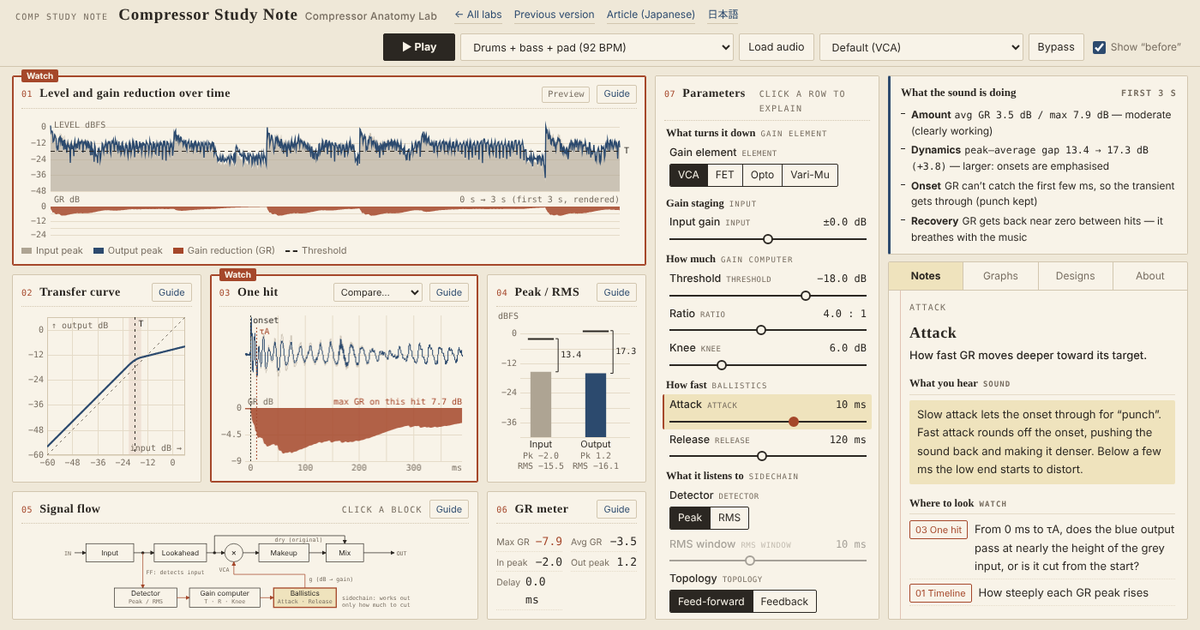
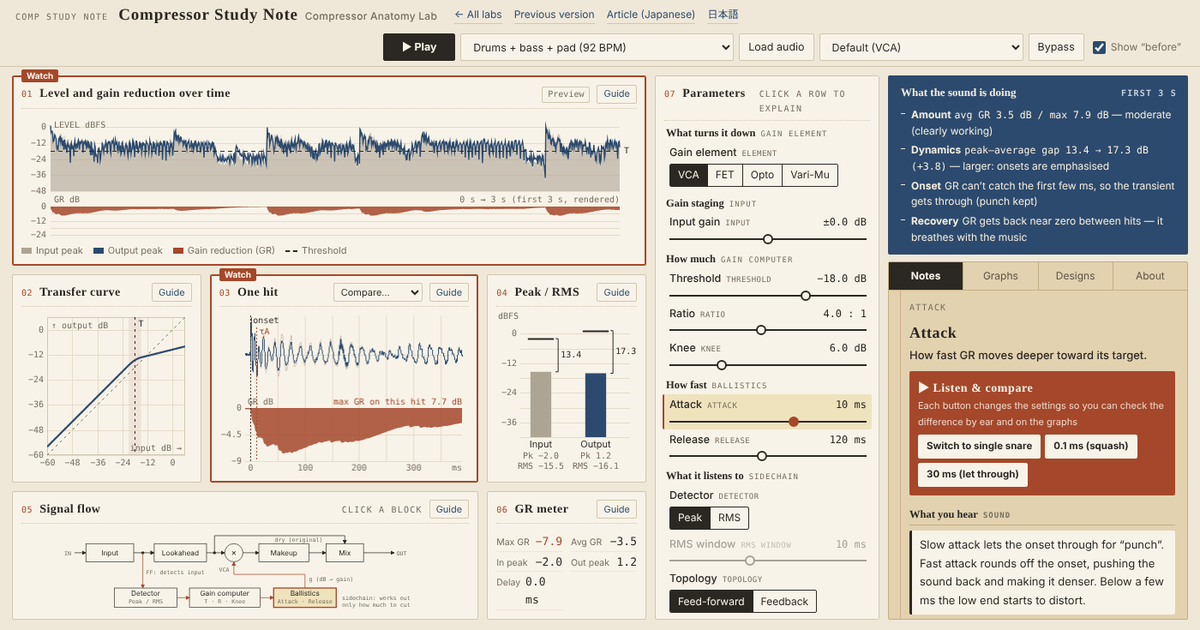
Comp study note: darker notes column, ink-blue observations, compare buttons first (#3)
Claude-Session: https://claude.ai/code/session_01QUV7xSZ45UcGwBtLykWsjA

Changed region(s): [[0.74, 0.1206, 1.0, 0.9952]]

diff --git a/comp-note/index.html b/comp-note/index.html
@@ -181,6 +181,28 @@ details.dsp summary{cursor:pointer;font-family:var(--serif);font-size:12.5px;mar
 .fine{font-size:11.5px;color:var(--muted)}
 .inline-pane{border:1px solid var(--line);border-left:3px solid var(--red);background:var(--page);padding:10px 12px;margin:4px 0 8px}
 
+/* ---------- right column: darker kraft + accents ---------- */
+:root{--kraft:#e2d2b0;--kraft-line:#c4ad82}
+.nb{background:var(--kraft);border-color:var(--kraft-line)}
+.tabs{border-bottom-color:var(--kraft-line)}
+.tabs button{border-right-color:var(--kraft-line);color:#5d5246}
+.tabs button[aria-selected="true"]{background:var(--ink);color:var(--on)}
+.nbody .pane h4{border-bottom-color:var(--kraft-line)}
+.pane .snd{background:var(--page);border-left:3px solid var(--ink)}
+.see li{border-bottom-color:var(--kraft-line)}
+.see button{background:var(--page)}
+.formula{background:var(--page)}
+.obs{background:var(--blue);border-color:var(--blue);color:#f3ecdc}
+.obs h3 .eyebrow{color:#c3cfdd}
+.obs li::before{background:#f3ecdc}
+.obs .ghost{color:#f2d38f}
+.trybox{background:var(--red);color:var(--on);padding:8px 10px 10px;margin:8px 0 6px;border-radius:2px}
+.tryh{margin:0 0 6px!important;font-family:var(--serif);font-weight:700;font-size:14px;letter-spacing:.04em}
+.tryh span{display:block;font-family:var(--ui);font-weight:400;font-size:11px;opacity:.85;letter-spacing:0}
+.trybox .tries .btn{background:var(--page);border-color:var(--page);color:var(--ink);font-weight:700}
+.trybox .tries .btn:hover{background:var(--ink);border-color:var(--ink);color:var(--on)}
+.inline-pane{background:var(--kraft)!important;border-color:var(--kraft-line)!important}
+
 /* ---------- mobile sticky monitor ---------- */
 .mon{display:none}
 
@@ -1025,9 +1047,9 @@ function renderEx() {
   }
   const ex = $('#ex');
   ex.innerHTML = `<p class="eyebrow">${e.en}</p><h3>${e.jp}</h3><p class="what">${e.what}</p>${offNote ? `<p class="off">${offNote}</p>` : ''}
+    ${e.tries.length ? `<div class="trybox"><p class="tryh">▶ 聴き比べ・見比べ<span>押すと設定が変わり、グラフと音で違いを確かめられます</span></p><div class="tries">${e.tries.map((t, i) => `<button class="btn" type="button" data-i="${i}">${t[0]}</button>`).join('')}</div></div>` : ''}
     <h4>音の変化<span class="eyebrow">Sound</span></h4><div class="snd">${e.snd}</div>
     <h4>グラフで見るところ<span class="eyebrow">Watch</span></h4><ul class="see">${e.see.map(([g, t]) => `<li><button type="button" data-g="${g}">${GN[g]}</button><span>${t}</span></li>`).join('')}</ul>
-    ${e.tries.length ? `<h4>聴き比べ・見比べ<span class="eyebrow">Try</span></h4><div class="tries">${e.tries.map((t, i) => `<button class="btn" type="button" data-i="${i}">${t[0]}</button>`).join('')}</div>` : ''}
     <h4>しくみ<span class="eyebrow">How it works</span></h4>${e.body.map((t) => `<p>${t}</p>`).join('')}
     <h4>目安<span class="eyebrow">Typical</span></h4><ul>${typ.map((t) => `<li>${t}</li>`).join('')}</ul>
     <details class="dsp"><summary>DSPでは（数式）</summary><div class="formula">${e.f}</div>${extra}</details>`;

diff --git a/comp-note/en/index.html b/comp-note/en/index.html
@@ -181,6 +181,28 @@ details.dsp summary{cursor:pointer;font-family:var(--serif);font-size:12.5px;mar
 .fine{font-size:11.5px;color:var(--muted)}
 .inline-pane{border:1px solid var(--line);border-left:3px solid var(--red);background:var(--page);padding:10px 12px;margin:4px 0 8px}
 
+/* ---------- right column: darker kraft + accents ---------- */
+:root{--kraft:#e2d2b0;--kraft-line:#c4ad82}
+.nb{background:var(--kraft);border-color:var(--kraft-line)}
+.tabs{border-bottom-color:var(--kraft-line)}
+.tabs button{border-right-color:var(--kraft-line);color:#5d5246}
+.tabs button[aria-selected="true"]{background:var(--ink);color:var(--on)}
+.nbody .pane h4{border-bottom-color:var(--kraft-line)}
+.pane .snd{background:var(--page);border-left:3px solid var(--ink)}
+.see li{border-bottom-color:var(--kraft-line)}
+.see button{background:var(--page)}
+.formula{background:var(--page)}
+.obs{background:var(--blue);border-color:var(--blue);color:#f3ecdc}
+.obs h3 .eyebrow{color:#c3cfdd}
+.obs li::before{background:#f3ecdc}
+.obs .ghost{color:#f2d38f}
+.trybox{background:var(--red);color:var(--on);padding:8px 10px 10px;margin:8px 0 6px;border-radius:2px}
+.tryh{margin:0 0 6px!important;font-family:var(--serif);font-weight:700;font-size:14px;letter-spacing:.04em}
+.tryh span{display:block;font-family:var(--ui);font-weight:400;font-size:11px;opacity:.85;letter-spacing:0}
+.trybox .tries .btn{background:var(--page);border-color:var(--page);color:var(--ink);font-weight:700}
+.trybox .tries .btn:hover{background:var(--ink);border-color:var(--ink);color:var(--on)}
+.inline-pane{background:var(--kraft)!important;border-color:var(--kraft-line)!important}
+
 /* ---------- mobile sticky monitor ---------- */
 .mon{display:none}
 
@@ -1039,9 +1061,9 @@ function renderEx() {
   }
   const ex = $('#ex');
   ex.innerHTML = `<p class="eyebrow">${e.en}</p><h3>${e.jp}</h3><p class="what">${e.what}</p>${offNote ? `<p class="off">${offNote}</p>` : ''}
+    ${e.tries.length ? `<div class="trybox"><p class="tryh">▶ Listen &amp; compare<span>Each button changes the settings so you can check the difference by ear and on the graphs</span></p><div class="tries">${e.tries.map((t, i) => `<button class="btn" type="button" data-i="${i}">${t[0]}</button>`).join('')}</div></div>` : ''}
     <h4>What you hear<span class="eyebrow">Sound</span></h4><div class="snd">${e.snd}</div>
     <h4>Where to look<span class="eyebrow">Watch</span></h4><ul class="see">${e.see.map(([g, t]) => `<li><button type="button" data-g="${g}">${GN[g]}</button><span>${t}</span></li>`).join('')}</ul>
-    ${e.tries.length ? `<h4>Listen &amp; compare<span class="eyebrow">Try</span></h4><div class="tries">${e.tries.map((t, i) => `<button class="btn" type="button" data-i="${i}">${t[0]}</button>`).join('')}</div>` : ''}
     <h4>How it works<span class="eyebrow">Inside</span></h4>${e.body.map((t) => `<p>${t}</p>`).join('')}
     <h4>Typical settings<span class="eyebrow">Typical</span></h4><ul>${typ.map((t) => `<li>${t}</li>`).join('')}</ul>
     <details class="dsp"><summary>In the DSP (formula)</summary><div class="formula">${e.f}</div>${extra}</details>`;
